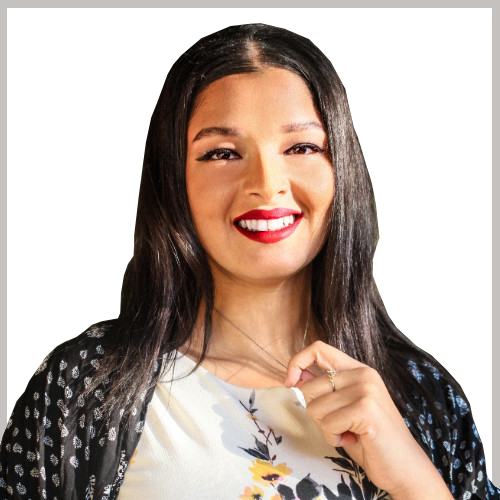
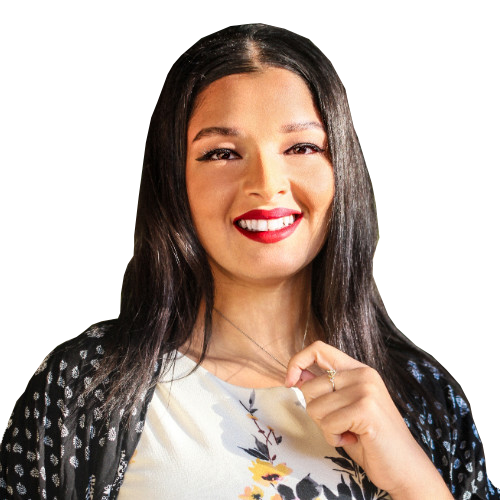
fix border + shadow

Changed region(s): [[0.0, 0.0, 1.0, 0.99]]

diff --git a/styles/styles.css b/styles/styles.css
@@ -44,8 +44,9 @@ h1 {
 }
 
 .rounded {
-  border-radius: 15px;
-  filter: drop-shadow(10px 10px 20px #333);
+  border-radius: 50%;
+  border: gold 5px solid;
+  filter: drop-shadow(5px 5px 20px #008);
 }
 
 .intro {
@@ -63,8 +64,8 @@ main {
 }
 
 .profile-pic {
-  width: 400px;
-  height: 400px;
+  width: 300px;
+  height: 300px;
 }
 
 .about {
